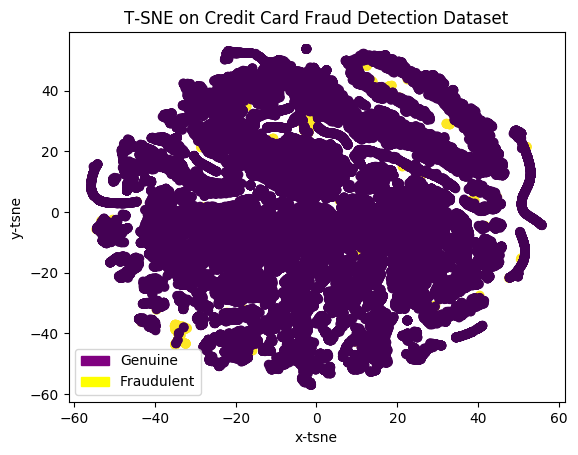
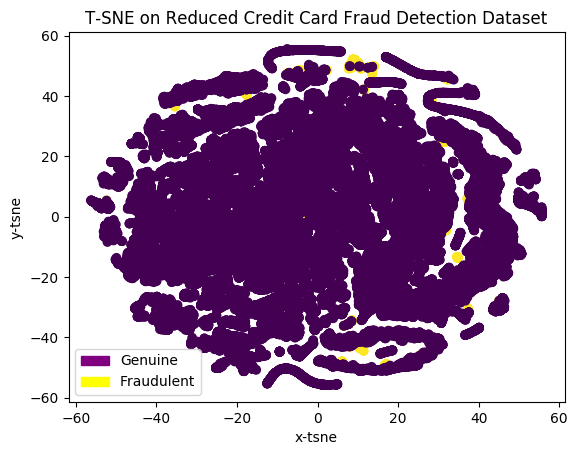
Update tsne

diff --git a/src/initial_analysis/tsne.py b/src/initial_analysis/tsne.py
@@ -36,7 +36,7 @@ def main():
     plt.scatter(X_tsne[:, 0], X_tsne[:, 1], c=df_new['Class'])
     plt.xlabel("x-tsne")
     plt.ylabel("y-tsne")
-    plt.title('T-SNE on Credit Card Fraud Detection Dataset')
+    plt.title('T-SNE on Reduced Credit Card Fraud Detection Dataset')
 
     purple_patch = mpatches.Patch(color='purple', label='Genuine')
     yellow_patch = mpatches.Patch(color='yellow', label='Fraudulent')
